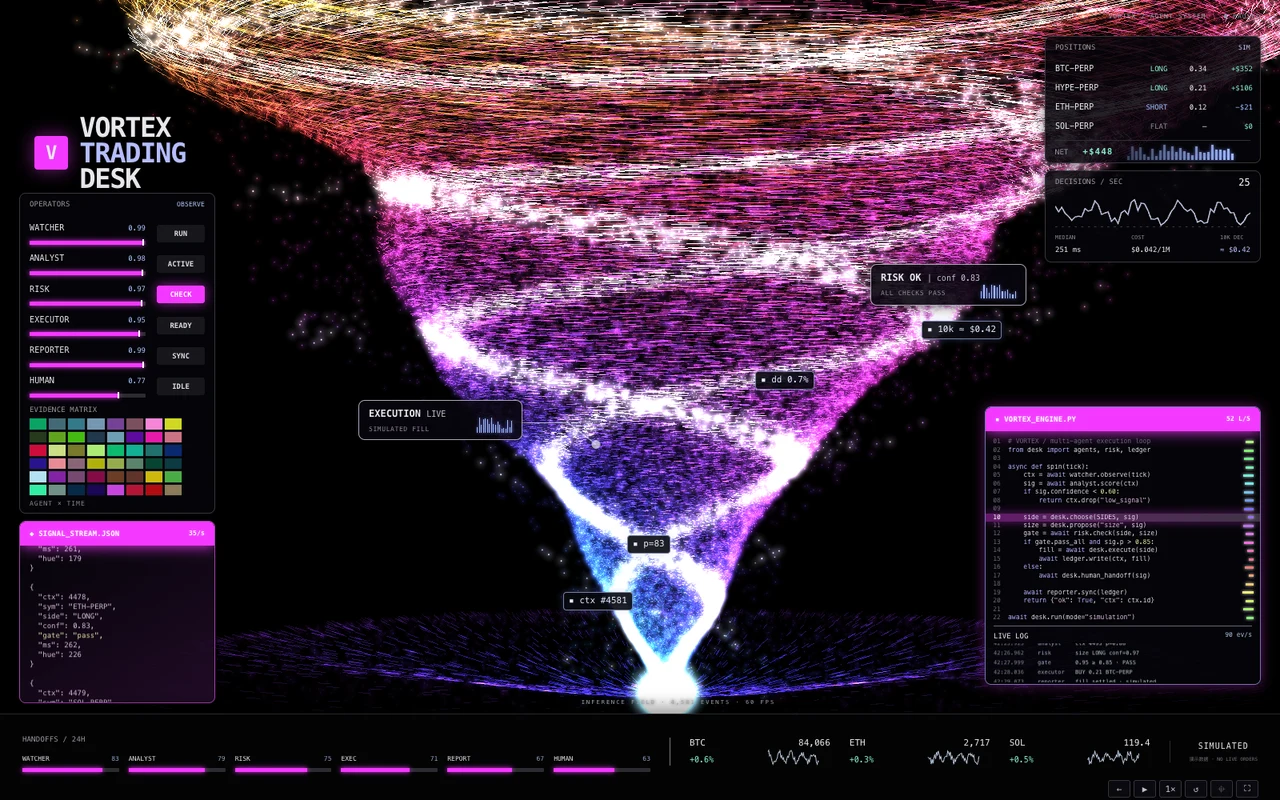
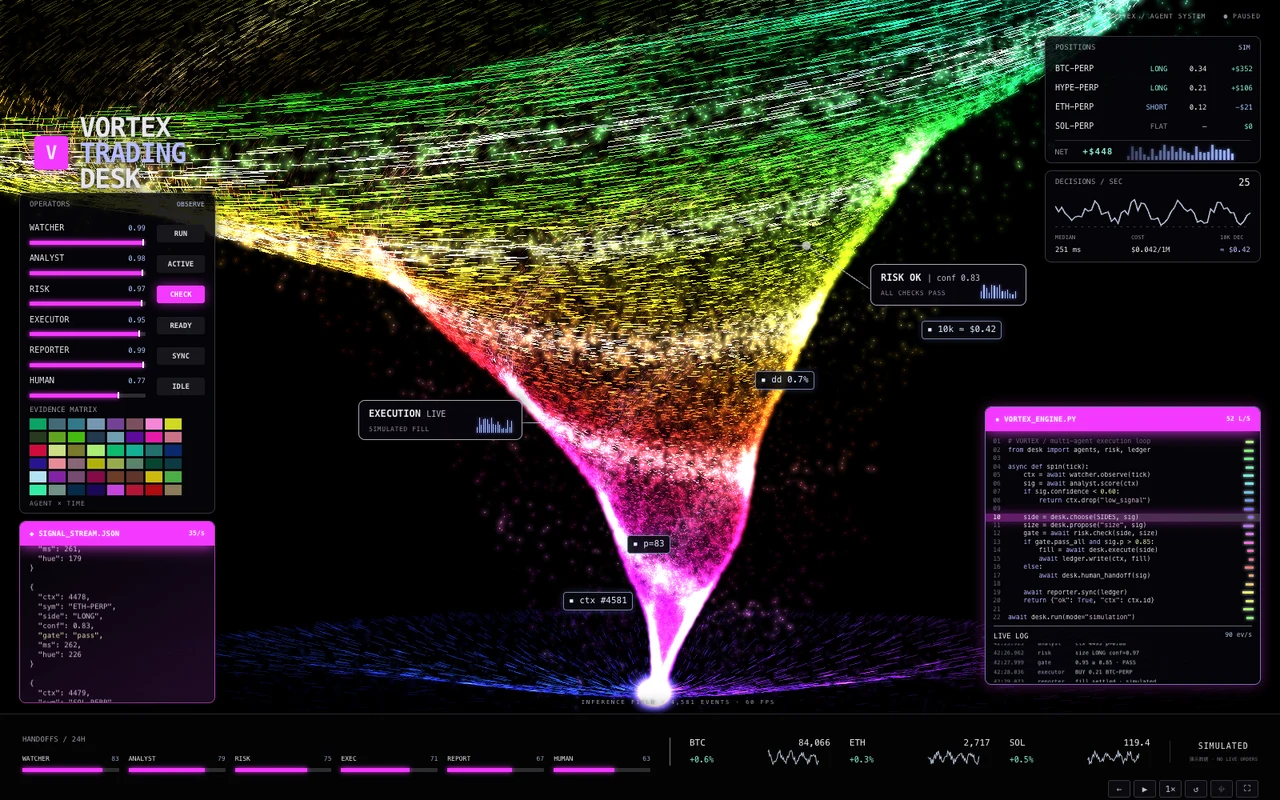
Match the reference vortex spiral and vertical color progression
Calibrate against three video phases: tilt the open bowl, reverse the front helix, curve and broaden the lower stem, and use height plus azimuth color progression on a five-second cycle. Keep the projected fallback geometry and ground emission aligned with the GPU scene.

Constraint: Preserve existing playback, adaptive quality and dashboard controls without new dependencies
Tested: Full check with 26 tests; seven Vortex tests under SwiftShader; matched-time visual comparisons; desktop, portrait and mobile rendering
Not-tested: Exact equivalence to compressed video filament softness
Confidence: high
Scope-risk: narrow

diff --git a/src/dashboards/vortex-desk/engine.ts b/src/dashboards/vortex-desk/engine.ts
@@ -9,42 +9,47 @@ precision highp float;
 attribute vec4 aSeed;
 attribute float aEnd;
 uniform float uTime, uAspect, uSpread, uYaw, uPitch, uZoom, uDpr, uGlow;
+uniform mediump float uPoints;
 varying vec3 vColor;
 varying float vAlpha;
 vec3 hsv(vec3 c) { vec3 p=abs(fract(c.xxx+vec3(0.,2./3.,1./3.))*6.-3.); return c.z*mix(vec3(1.),clamp(p-1.,0.,1.),c.y); }
 void main() {
- float h=aSeed.x, theta=aSeed.y, seed=aSeed.z, kind=aSeed.w;
- float angle=theta+uTime*(1.8+1.2*(1.-h))+h*9.;
- float radius=(.012+pow(h,1.18)*1.08+.3*pow(h,4.))*uSpread;
- radius*=1.+.085*sin(h*17.-uTime*1.8)+.045*sin(h*47.+theta*3.-uTime*3.);
- float shell=.85+.16*seed;
- angle+=aEnd*(.012+.055*h)*(1.+seed);
- vec3 p=vec3(cos(angle)*radius*shell, .94-h*2.22, sin(angle)*radius*shell);
- p.x+=.075+.16*h*sin(h*3.5-uTime*.32)+.055*h*sin(h*10.+uTime*.25);
+ float h=fract(aSeed.x+uTime*.045), theta=aSeed.y, seed=aSeed.z, kind=aSeed.w;
+ float tail=aEnd*(.008+.022*h)*(1.+seed);
+ float angle=theta+uTime*(2.1+.7*(1.-h))+h*9.+tail;
+ h-=tail/17.;
+ h=max(0.,h);
+ float radius=(.01+pow(h,1.72)*1.08+.34*pow(h,5.))*uSpread;
+ radius*=1.+.65*exp(-pow((h-.16)/.10,2.));
+ radius*=1.+.045*sin(h*15.-uTime*1.4)+.025*sin(h*31.+angle*2.-uTime);
+ float shell=.94+.06*seed;
+ float x=cos(angle)*radius*shell, z=sin(angle)*radius*shell;
+ vec3 p=vec3(x+.04-.32*h*h+.04*h+.045*exp(-pow((h-.20)/.15,2.))+.10*sin(h*3.14159)*exp(-2.*h)+.055*h*sin(h*4.-uTime*.45), .94-h*2.22-.18*x-.40*z, z);
  if(kind>1.5) {
    float cycle=fract(seed+uTime*.32);
    float reach=pow(cycle,.8)*1.7;
    p=vec3(cos(theta)*reach,.94-sin(cycle*3.14159)*(.04+.16*seed),sin(theta)*reach*.56);
-   p.x+=.075; p.y-=aEnd*.008; p.x+=aEnd*cos(theta)*.04; p.z+=aEnd*sin(theta)*.04;
+   p.x+=.04; p.y-=aEnd*.008; p.x+=aEnd*cos(theta)*.04; p.z+=aEnd*sin(theta)*.04;
  } else if(kind>.5) {
-   p.x+=cos(theta)*seed*.4; p.z+=sin(theta)*seed*.4;
+   p.x+=cos(angle)*seed*.35; p.z+=sin(angle)*seed*.35;
  }
- if(kind>2.5) { p=vec3(.075+cos(theta)*seed*.035,.94-sin(theta)*seed*.012,sin(theta)*seed*.035); }
+ if(kind>2.5) { p=vec3(.04+cos(theta)*seed*.025,.94-sin(theta)*seed*.008,sin(theta)*seed*.025); }
  float cy=cos(uYaw), sy=sin(uYaw), cp=cos(uPitch), sp=sin(uPitch);
  p.xz=mat2(cy,-sy,sy,cy)*p.xz;
  p.yz=mat2(cp,-sp,sp,cp)*p.yz;
  float perspective=4.8/(4.8+p.z);
  gl_Position=vec4(p.x*perspective*uZoom/uAspect,-p.y*perspective*uZoom,0.,1.);
- float band=pow(.5+.5*sin(h*45.+theta*2.-uTime*2.4),9.);
- float hue=fract(.33+h*.54+uTime/15.+.06*sin(theta)+seed*.045);
- vColor=hsv(vec3(hue,.74,1.));
- vColor=mix(vColor,vec3(1.),band*.78);
- vAlpha=(.36+seed*.43+band*.9)*(p.z<0.?1.:.56);
- if(kind>.5) vAlpha*=.85;
- if(kind>1.5) { vColor=hsv(vec3(fract(.45+uTime/15.+seed*.13),.8,1.)); vAlpha=(1.-fract(seed+uTime*.32))*.64; }
- gl_PointSize=(1.0+seed*1.5+band)*uDpr*perspective;
- if(kind>2.5) { vColor=mix(hsv(vec3(fract(.33+uTime/15.),.8,1.)),vec3(1.),.55); vAlpha=.5; gl_PointSize=(5.+seed*8.)*uDpr; }
- if(uGlow>.5) { gl_PointSize*=7.; vAlpha*=.19; }
+ float band=pow(.5+.5*cos(angle*2.+h*34.+uTime*1.2),4.);
+ float hue=fract(.05+uTime/5.+pow(h,.82)*.68+.22*h*cos(angle)+seed*.015);
+ vColor=hsv(vec3(hue,.88,1.));
+ vColor=mix(vColor,vec3(1.),band*.4);
+ vAlpha=(.42+seed*.25+band*.95)*(p.z<0.?1.:.24);
+ if(uPoints<.5) vAlpha*=1.5;
+ if(kind>.5) vAlpha*=.7;
+ if(kind>1.5) { vColor=hsv(vec3(fract(.05+uTime/5.+cos(theta)*.06+seed*.025),.85,1.)); vAlpha=(1.-fract(seed+uTime*.32))*.64; }
+ gl_PointSize=(1.+seed*1.4+band*.3)*uDpr*perspective;
+ if(kind>2.5) { vColor=mix(hsv(vec3(fract(.05+uTime/5.),.85,1.)),vec3(1.),.3); vAlpha=.36; gl_PointSize=(3.+seed*6.)*uDpr; }
+ if(uGlow>.5) { gl_PointSize*=7.; vAlpha*=.20; }
 }
 `;
 const fragmentSource = `
@@ -106,11 +111,17 @@ export function mountVortexDesk(canvas: HTMLCanvasElement, options: VortexOption
   }
   initGL();
   const spread = () => Math.min(1.5, Math.max(.7, width / height));
-  function position(h: number, theta: number, seed: number) {
-    const angle = theta + time * (1.8 + 1.2 * (1 - h)) + h * 9;
-    const radius = (.012 + h ** 1.18 * 1.08 + .3 * h ** 4) * spread() * (1 + .085 * Math.sin(h * 17 - time * 1.8) + .045 * Math.sin(h * 47 + theta * 3 - time * 3)) * (.85 + .16 * seed);
-    return { x: Math.cos(angle) * radius + .075 + .16 * h * Math.sin(h * 3.5 - time * .32) + .055 * h * Math.sin(h * 10 + time * .25), y: .94 - h * 2.22, z: Math.sin(angle) * radius };
+  // Keep geometry in sync with the shader for the Canvas fallback and camera probes.
+  function position(height: number, theta: number, seed: number, endpoint = 0) {
+    let h = (height + time * .045) % 1;
+    const tail = endpoint * (.008 + .022 * h) * (1 + seed);
+    const angle = theta + time * (2.1 + .7 * (1 - h)) + h * 9 + tail;
+    h = Math.max(0, h - tail / 17);
+    const radius = (.01 + h ** 1.72 * 1.08 + .34 * h ** 5) * spread() * (1 + .65 * Math.exp(-(((h - .16) / .10) ** 2))) * (1 + .045 * Math.sin(h * 15 - time * 1.4) + .025 * Math.sin(h * 31 + angle * 2 - time)) * (.94 + .06 * seed);
+    const x = Math.cos(angle) * radius, z = Math.sin(angle) * radius;
+    return { x: x + .04 - .32 * h * h + .04 * h + .045 * Math.exp(-(((h - .20) / .15) ** 2)) + .10 * Math.sin(h * Math.PI) * Math.exp(-2 * h) + .055 * h * Math.sin(h * 4 - time * .45), y: .94 - h * 2.22 - .18 * x - .40 * z, z };
   }
+
   function project(p: { x: number; y: number; z: number }) {
     const x = Math.cos(yaw) * p.x + Math.sin(yaw) * p.z;
     const z = -Math.sin(yaw) * p.x + Math.cos(yaw) * p.z;
@@ -147,17 +158,21 @@ export function mountVortexDesk(canvas: HTMLCanvasElement, options: VortexOption
       gl.drawArrays(gl.LINES, 60000, Math.floor(2000 * density) * 2);
     } else if (ctx) {
       ctx.setTransform(dpr, 0, 0, dpr, 0, 0); ctx.globalCompositeOperation = 'source-over'; ctx.fillStyle = '#000'; ctx.fillRect(0, 0, width, height); ctx.globalCompositeOperation = 'lighter';
-      for (let bucket = 0; bucket < 20; bucket++) {
-        ctx.strokeStyle = `hsla(${(170 + bucket * 10 + time * 24) % 360},95%,65%,.48)`; ctx.lineWidth = .7; ctx.beginPath();
-        for (let i = bucket; i < 18000; i += 20) {
-          const index = i * 10, h = lines[index]!, angle = lines[index + 1]!, seed = lines[index + 2]!;
-          const a = project(position(h, angle, seed)), b = project(position(h, angle + (.012 + .055 * h) * (1 + seed), seed));
-          ctx.moveTo(a.x, a.y); ctx.lineTo(b.x, b.y);
-        }
-        ctx.stroke();
+      const paths = Array.from({ length: 36 }, () => new Path2D());
+      for (let i = 0; i < 18000; i++) {
+        const index = i * 10, heightSeed = lines[index]!, theta = lines[index + 1]!, seed = lines[index + 2]!;
+        const h = (heightSeed + time * .045) % 1;
+        const angle = theta + time * (2.1 + .7 * (1 - h)) + h * 9;
+        const hue = (.05 + time / 5 + h ** .82 * .68 + .22 * h * Math.cos(angle) + seed * .015) % 1;
+        const path = paths[Math.floor(hue * paths.length)]!;
+        const a = project(position(heightSeed, theta, seed)), b = project(position(heightSeed, theta, seed, 1));
+        path.moveTo(a.x, a.y); path.lineTo(b.x, b.y);
       }
-      const base = project({ x: .075, y: .94, z: 0 }), glow = ctx.createRadialGradient(base.x, base.y, 0, base.x, base.y, height * .1);
-      glow.addColorStop(0, '#fff'); glow.addColorStop(.08, '#98fff6'); glow.addColorStop(.3, '#00bdab55'); glow.addColorStop(1, '#0000'); ctx.fillStyle = glow; ctx.fillRect(0, 0, width, height);
+      ctx.lineWidth = .7;
+      paths.forEach((path, bucket) => { ctx.strokeStyle = `hsla(${bucket * 10},95%,65%,.65)`; ctx.stroke(path); });
+      const base = project({ x: .04, y: .94, z: 0 }), glow = ctx.createRadialGradient(base.x, base.y, 0, base.x, base.y, height * .1);
+      const groundHue = ((.05 + time / 5) % 1) * 360;
+      glow.addColorStop(0, '#fff'); glow.addColorStop(.08, `hsl(${groundHue},95%,80%)`); glow.addColorStop(.3, `hsla(${groundHue},95%,55%,.33)`); glow.addColorStop(1, '#0000'); ctx.fillStyle = glow; ctx.fillRect(0, 0, width, height);
     }
     frames++; options.onFrame?.(time);
   }

diff --git a/docs/vortex-desk.md b/docs/vortex-desk.md
@@ -2,7 +2,7 @@
 
 ## 视频分析
 
-参考 mov8.mp4：1080 × 1350、30 fps、约 30.14 秒。画面使用黑色背景，彩色粒子龙卷占据中心与大部分背景，上部宽阔并超出画面，下部收束为发光尖端。螺旋丝状光带快速绕轴运动，青、蓝、紫、粉、橙、黄、绿沿高度与时间变化，底部有向外喷射的粒子和地面辉光。
+参考 mov8.mp4：1080 × 1350、30 fps、约 30.14 秒。画面使用黑色背景，彩色粒子龙卷占据中心与大部分背景，上部宽阔并超出画面，下部收束为发光尖端。螺旋丝状光带快速绕轴运动，色相约每 5 秒完成一轮，青、蓝、紫、粉、橙、黄、绿沿高度与时间变化，底部有向外喷射的粒子和地面辉光。
 
 | 区域 | 视觉与运动 |
 | --- | --- |
@@ -23,6 +23,8 @@
 - 源码：`src/dashboards/vortex-desk/`，分离视图、样式、状态模型与渲染引擎。
 - 索引：新增“粒子可视化”分类，支持搜索、排序与预览。
 - 延续 Vue 3、TypeScript、Vite，不增加第三方依赖。
+
+漏斗上口向左展开、环面左低右高，前侧亮带沿相反斜向绕入弯曲的收束尾部。细丝端点同时改变角度与高度，避免绘制成水平圆环；颜色结合高度和方位连续过渡，地面喷射与脚部使用同一色相基准。
 
 粒子与丝线使用三维坐标生成，经过旋转和透视投影呈现空间深度。画面不使用视频背景、原视频截图或预渲染动图。指标和日志跟随统一演示时间，暂停、速度切换与重播保持同步。
 
